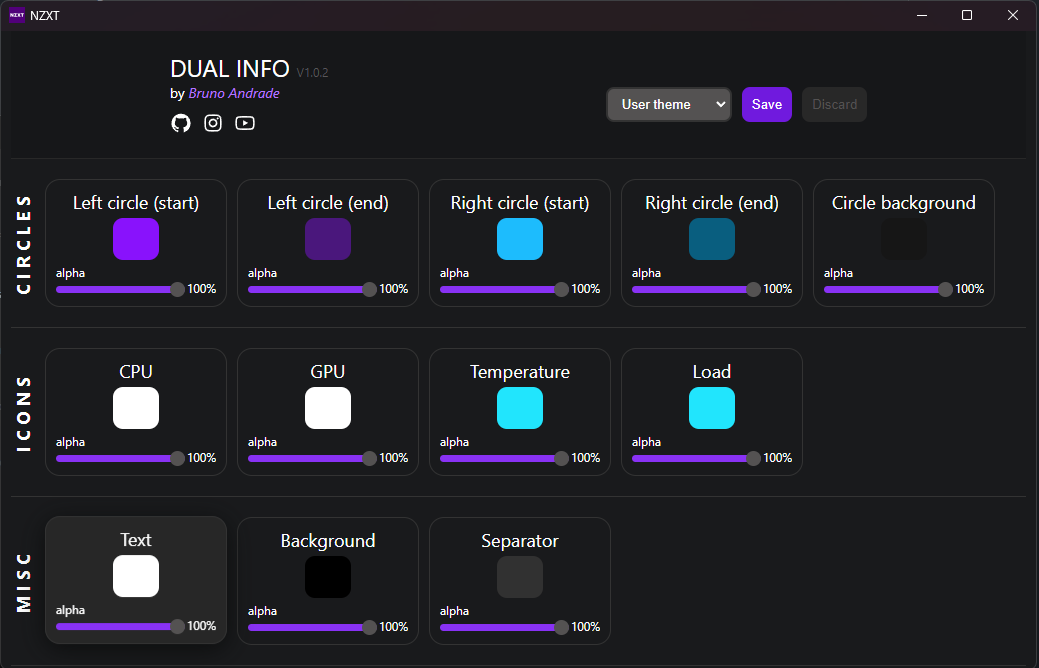
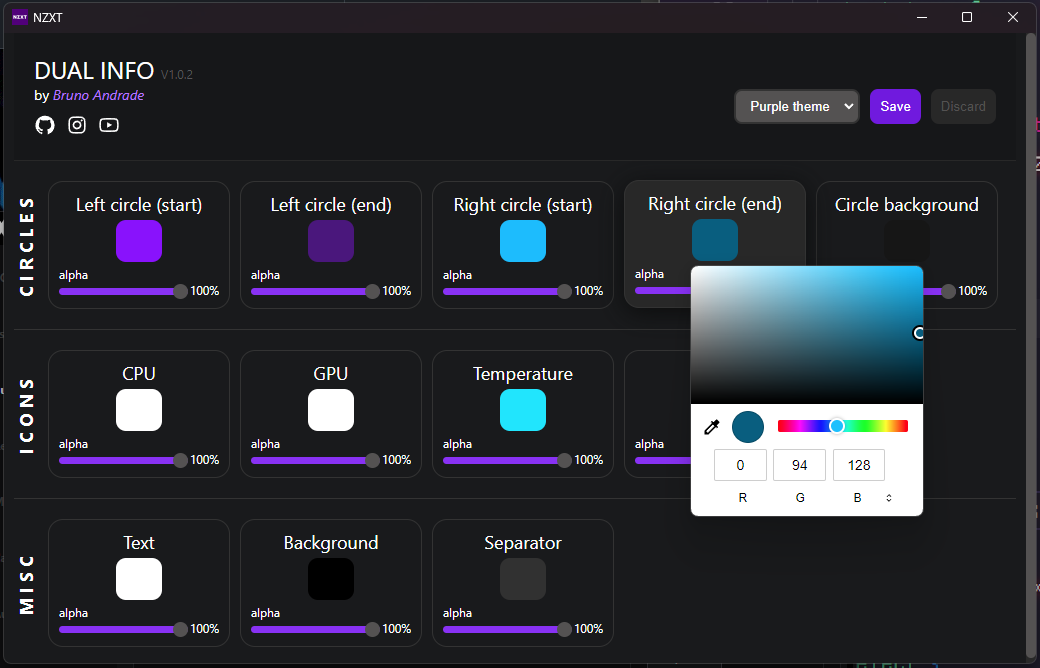
layout: adjusted header align

diff --git a/src/components/Preferences/styles.ts b/src/components/Preferences/styles.ts
@@ -10,7 +10,7 @@ export const Container = styled.div`
   .header {
     display: flex;
     align-items: center;
-    justify-content: space-around;
+    justify-content: space-between;
     flex-wrap: wrap;
     margin-bottom: 20px;
     padding: 20px 20px;
@@ -54,6 +54,7 @@ export const Container = styled.div`
 
     .panel {
       display: flex;
+      flex-wrap: wrap;
       gap: 10px;
       margin-top: 20px;
 

diff --git a/src/components/Preferences/index.tsx b/src/components/Preferences/index.tsx
@@ -81,7 +81,7 @@ export const Preferences = () => {
       <div className="header">
         <div className="info">
           <div className="title">
-            Dual Info <span>v1.0.2</span>
+            Dual Info <span>v1.0.3</span>
           </div>
 
           <div className="author">
